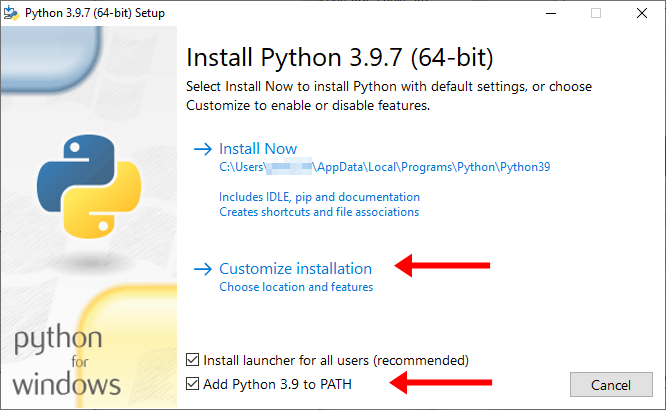
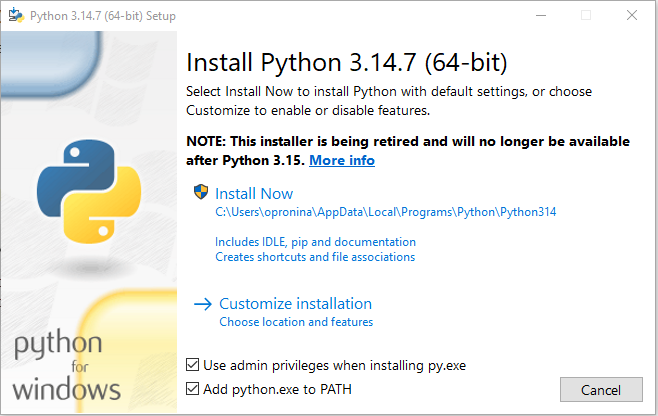
Update reference to latest pythom versions, fix formatting errors

diff --git a/feature-modules/alyvix/installation/alyvix-core/install-alyvix-core.inc.rst b/feature-modules/alyvix/installation/alyvix-core/install-alyvix-core.inc.rst
@@ -45,7 +45,7 @@ Versions
 +----------------+------------------------------+--------------------------------------------------------------------------------------------------+
 | Alyvix Version | Python Version Required      | Install Command                                                                                  |
 +----------------+------------------------------+--------------------------------------------------------------------------------------------------+
-| Alyvix 3.8.0   | |python-download-link-397|   | ``pip install alyvix --extra-index-url https://alyvix.github.io/alyvix-python-packages/simple/`` |
+| Alyvix 3.8.0   | |python-download-link-3147|  | ``pip install alyvix --extra-index-url https://alyvix.github.io/alyvix-python-packages/simple/`` |
 +----------------+------------------------------+--------------------------------------------------------------------------------------------------+
 | Alyvix 3.7.1   | |python-download-link-397|   | ``pip install alyvix==3.7.1``                                                                    |
 +----------------+------------------------------+--------------------------------------------------------------------------------------------------+
@@ -86,26 +86,26 @@ Follow this procedure to install Python on your system:
 #. Start the installation:
 
    1. :warn:`Right-click` on the downloaded executable and select **"Run as administrator"**
-   2. Check the box **"Add Python 3.9 to PATH"** at the bottom
+   2. Check the box **"Add Python 3.14 to PATH"** at the bottom
    3. Choose the option **"Customize installation"**
 
-   .. image:: img/python-install-01.png
+   .. image:: /feature-modules/alyvix/installation/alyvix-core/img/python-install-01.png
       :class: image-boxshadow image-very-large zoomable-image
       :alt: The first panel of the python installation process.
 
 #. On the second panel all the option boxes should already be checked.  Click **"Next"** to
    continue.
 
-   .. image:: img/python-install-02.png
+   .. image:: /feature-modules/alyvix/installation/alyvix-core/img/python-install-02.png
       :class: image-boxshadow image-very-large zoomable-image
       :alt: The second panel of the python installation process.
 
 #. On the third panel, make sure the advanced options are set as shown below.  Then under
-   **"Customize install location"**, insert the recommended location :file:`C:\\Python39\\`.
+   **"Customize install location"**, insert the recommended location :file:`C:\\Python314\\`.
    Finally, click on **"Install"**.  At this point Python will begin installing, typically
    requiring about 5 minutes.
 
-   .. image:: img/python-install-03.png
+   .. image:: /feature-modules/alyvix/installation/alyvix-core/img/python-install-03.png
       :class: image-boxshadow image-very-large zoomable-image
       :alt: The third panel of the python installation process.
 
@@ -116,7 +116,7 @@ Follow this procedure to install Python on your system:
       :class: tiny-code-block
 
       C:\> python --version
-      Python 3.9.7
+      Python 3.14.7
 
 
 
@@ -128,8 +128,8 @@ Installing Alyvix
 
 Alyvix itself is installed via *pip*, the official Python package manager.  *pip* will
 automatically detect that your system is running Python 3 and will install Alyvix 3,
-placing all executables in the directory
-:file:`C:\\Python39\\Lib\\site-packages\\alyvix\\`.
+placing all python files in the directory
+:file:`C:\\Python314\\Lib\\site-packages\\alyvix\\`.
 
 The Alyvix installer is launched from the command prompt that, like the Python installer, must be
 **started in Administrator mode**.  Only this single step is required:
@@ -193,7 +193,11 @@ Only two steps are needed to upgrade to the latest version:
        containing folder (e.g., ``C:\Python37\``) and re-install Alyvix with *pip* as shown in
        the section :ref:`Installing Alyvix <install_release_alyvix_install>` above.
 
-     * If you have Python 3.9.7 installed, then you can use the *pip --upgrade* command:
+     * If you have Python 3.9.7 installed, uninstall it, then manually remove its
+       containing folder (e.g., ``C:\Python39\``) and re-install Alyvix with *pip* as shown in
+       the section :ref:`Installing Alyvix <install_release_alyvix_install>` above.
+
+     * If you have Python 3.14.7 installed, then you can use the *pip --upgrade* command:
 
        .. code-block:: doscon
           :class: short-code-block

diff --git a/feature-modules/alyvix/installation/alyvix-service/sphinx-roles.inc.rst b/feature-modules/alyvix/installation/alyvix-service/sphinx-roles.inc.rst
@@ -1,18 +1,3 @@
-.. |font-img| image:: /_static/img/font.png
-   :width: 60
-.. |image-img| image:: /_static/img/image.png
-   :width: 60
-.. |rect-img| image:: /_static/img/rect.png
-   :width: 60
-.. |email-small-img| image:: /_static/img/email_40.png
-   :width: 40
-   :class: no-scaled-link
-.. |github-small-img| image:: /_static/img/github_40.png
-   :width: 48
-   :class: no-scaled-link
-.. |slack-small-img| image:: /pictures/slack_logo.png
-   :width: 38
-   :class: no-scaled-link
 
 .. |config-file-location| replace:: :file:`C:\\ProgramData\\Alyvix\\config.json`
 
@@ -20,17 +5,17 @@
 
 .. |security-directory-location| replace:: :file:`C:\\ProgramData\\Alyvix\\certs\\`
 
-.. |link-postgresql-install-12.x| replace:: `12.x <https://www.enterprisedb.com/software-downloads-postgres>`_
+.. |link-postgresql-install-12.x| replace:: `12.x <https://www.enterprisedb.com/software-downloads-postgres>`__
 
-.. |link-to-alyvix-install37x| replace:: `Alyvix 3.7.x <https://alyvix.com/learn/getting_started/install.html#versions>`_
+.. |link-to-alyvix-install37x| replace:: `Alyvix 3.7.x <https://alyvix.com/learn/getting_started/install.html#versions>`__
 
-.. |link-to-alyvix-install36x| replace:: `Alyvix 3.6.x <https://alyvix.com/learn/getting_started/install.html#versions>`_
+.. |link-to-alyvix-install36x| replace:: `Alyvix 3.6.x <https://alyvix.com/learn/getting_started/install.html#versions>`__
 
-.. |link-to-alyvix-install35x| replace:: `Alyvix 3.5.x <https://alyvix.com/learn/getting_started/install.html#versions>`_
+.. |link-to-alyvix-install35x| replace:: `Alyvix 3.5.x <https://alyvix.com/learn/getting_started/install.html#versions>`__
 
-.. |link-to-alyvix-install34x| replace:: `Alyvix 3.4.x <https://alyvix.com/learn/getting_started/install.html#versions>`_
+.. |link-to-alyvix-install34x| replace:: `Alyvix 3.4.x <https://alyvix.com/learn/getting_started/install.html#versions>`__
 
-.. |link-to-alyvix-install33x| replace:: `Alyvix 3.3.x <https://alyvix.com/learn/getting_started/install.html#versions>`_
+.. |link-to-alyvix-install33x| replace:: `Alyvix 3.3.x <https://alyvix.com/learn/getting_started/install.html#versions>`__
 
 .. |source-youtube| raw:: html
 

diff --git a/feature-modules/alyvix/installation/alyvix-core/sphinx-roles.inc.rst b/feature-modules/alyvix/installation/alyvix-core/sphinx-roles.inc.rst
@@ -1,18 +1,3 @@
-.. |font-img| image:: /_static/img/font.png
-   :width: 60
-.. |image-img| image:: /_static/img/image.png
-   :width: 60
-.. |rect-img| image:: /_static/img/rect.png
-   :width: 60
-.. |email-small-img| image:: /_static/img/email_40.png
-   :width: 40
-   :class: no-scaled-link
-.. |github-small-img| image:: /_static/img/github_40.png
-   :width: 48
-   :class: no-scaled-link
-.. |slack-small-img| image:: /pictures/slack_logo.png
-   :width: 38
-   :class: no-scaled-link
 
 .. |play-icon| raw:: html
 
@@ -22,11 +7,13 @@
 
    &nbsp;<i class="fa fa-small fa-black fa-times"></i>
 
-.. |python-download-link-397| replace:: `Python 3.9.7 <https://www.python.org/ftp/python/3.9.7/python-3.9.7-amd64.exe>`_
+.. |python-download-link-3147| replace:: `Python 3.14.7 <https://www.python.org/ftp/python/3.14.7/python-3.14.7-amd64.exe>`__
 
-.. |python-download-link-379| replace:: `Python 3.7.9 <https://www.python.org/ftp/python/3.7.9/python-3.7.9-amd64.exe>`_
+.. |python-download-link-397| replace:: `Python 3.9.7 <https://www.python.org/ftp/python/3.9.7/python-3.9.7-amd64.exe>`__
 
-.. |python-download-link| replace:: `64-bit Windows installer for Python version 3.9.7 <https://www.python.org/ftp/python/3.9.7/python-3.9.7-amd64.exe>`_
+.. |python-download-link-379| replace:: `Python 3.7.9 <https://www.python.org/ftp/python/3.7.9/python-3.7.9-amd64.exe>`__
+
+.. |python-download-link| replace:: `64-bit Windows installer for Python version 3.9.7 <https://www.python.org/ftp/python/3.14.7/python-3.14.7-amd64.exe>`__
 
 .. |python-remove-name| replace:: :file:`Python 3.9.7 (64-bit)`
 

diff --git a/feature-modules/alyvix/installation/alyvix-service/install-alyvix-service.inc.rst b/feature-modules/alyvix/installation/alyvix-service/install-alyvix-service.inc.rst
@@ -110,7 +110,7 @@ The following steps will install Alyvix Service on your machine:
    default password to ensure the security of your system, and make a note of it so that
    you can configure Alyvix Service to use PostGre in the next step below.
 
-   .. image:: img/postgre-install-05.png
+   .. image:: /feature-modules/alyvix/installation/alyvix-service/img/postgre-install-05.png
       :width: 70%
       :align: center
       :alt: Use a secure password and remember it.
@@ -149,7 +149,7 @@ The following steps will install Alyvix Service on your machine:
 
    Run **Alyvix Service** within Windows Services **Task Manager > Services Tab > Alyvix Service > Start**
 
-   .. image:: img/service_alyvix_restart.png
+   .. image:: /feature-modules/alyvix/installation/alyvix-service/img/service_alyvix_restart.png
       :width: 70%
       :align: center
       :alt: Start the Alyvix Service.
